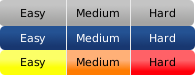
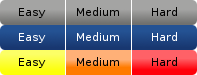
Created finer rating selector buttons for card/quiz review tab.

diff --git a/app/webroot/css/deck_rts_wdg.css b/app/webroot/css/deck_rts_wdg.css
@@ -2,7 +2,7 @@
 
 .rts {
     position: relative;
-    width: 195px;
+    width: 197px;
     height: 25px;
     background: url("/img/rts_info.png") no-repeat;
     margin: 0 auto 0 auto;
@@ -38,28 +38,28 @@
 }
 
 /** medium button style effects **/
-.medium { left: 65px; width: 65px; }
+.medium { left: 66px; width: 65px; }
 .rts-medium, .rts-medium-click {
     position: absolute;
-    left: 65px;
+    left: 66px;
     width: 65px;
     height: 25px;
-    background: transparent url("/img/rts_info.png") -65px -25px no-repeat;
+    background: transparent url("/img/rts_info.png") -66px -25px no-repeat;
 }
 .rts-medium-click {
-    background: transparent url("/img/rts_info.png") -65px -50px no-repeat;
+    background: transparent url("/img/rts_info.png") -66px -50px no-repeat;
 }
 
 
 /** hard button style effects **/
-.hard   { left: 130px; width: 65px; }
+.hard   { left: 132px; width: 65px; }
 .rts-hard, .rts-hard-click {
     position: absolute;
-    left: 130px;
+    left: 132px;
     width: 65px;
     height: 25px;
-    background: transparent url("/img/rts_info.png") -130px -25px no-repeat;
+    background: transparent url("/img/rts_info.png") -132px -25px no-repeat;
 }
 .rts-hard-click {
-    background: transparent url("/img/rts_info.png") -130px -50px no-repeat;
+    background: transparent url("/img/rts_info.png") -132px -50px no-repeat;
 }
